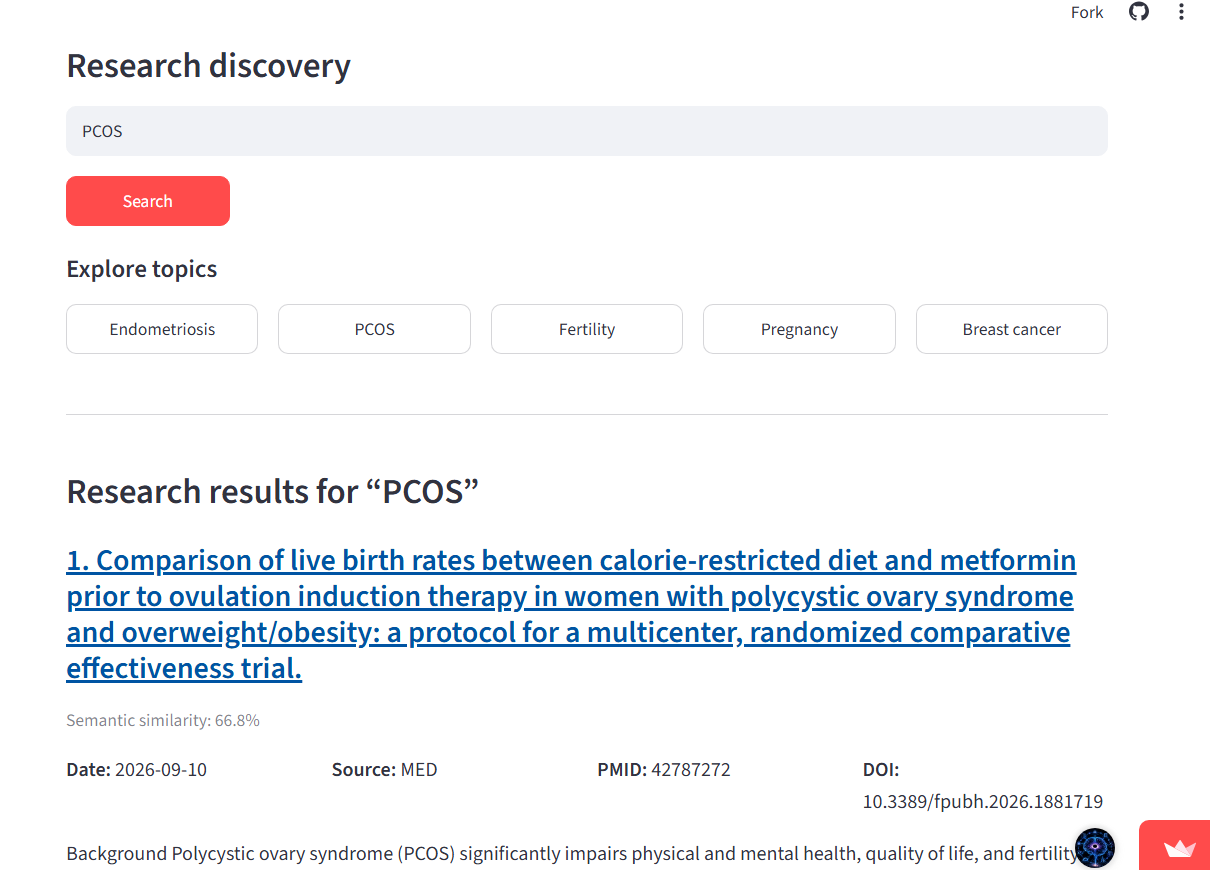
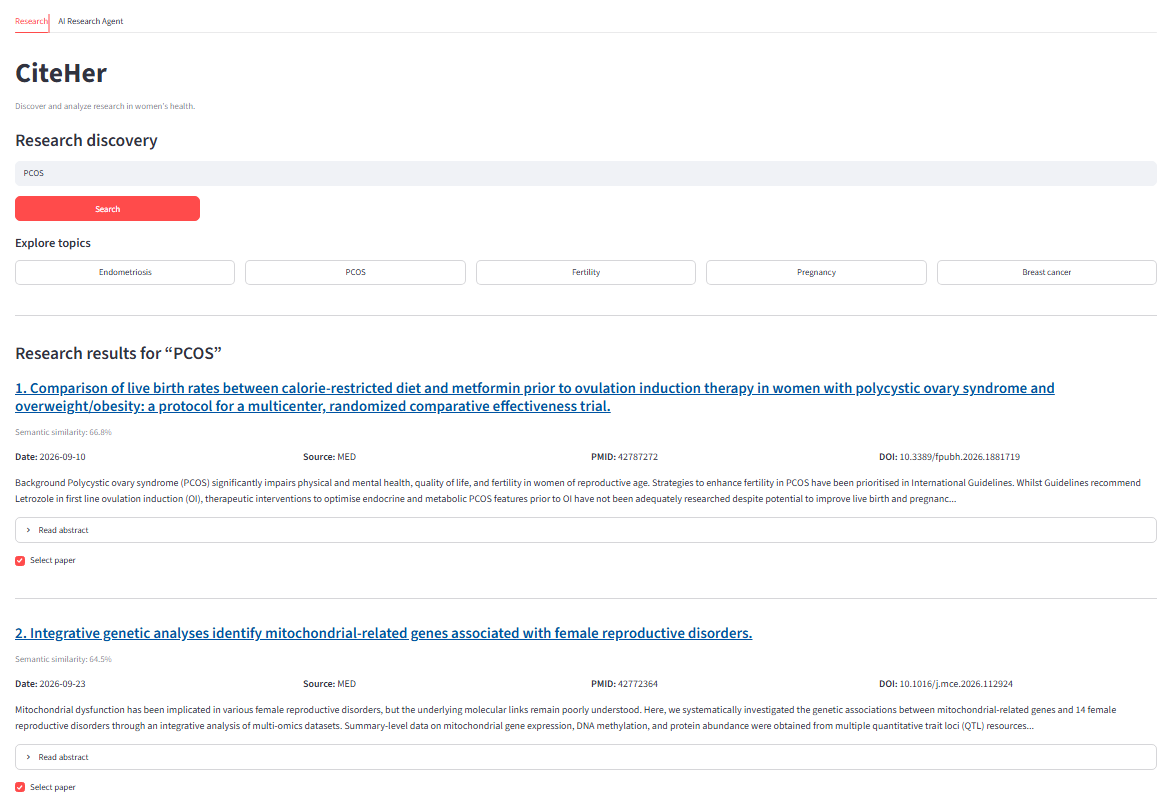
updated outputs images

diff --git a/README.md b/README.md
@@ -13,6 +13,56 @@ Search women's health research and ask questions that are answered only from the
 
 ---
 
+## Application Walkthrough & Pipeline Gallery
+
+complete execution cycle of CiteHer—spanning the automated background data refresh pipelines down to the multi-stage verifiable user interface.
+
+<table width="100%">
+  <!-- Row 1: Backend Automation & Discovery -->
+  <tr>
+    <td align="center" valign="top" width="50%">
+      <img src="outputs/github-actions.png" alt="Ingestion Pipeline Workflow" style="max-width: 100%; border-radius: 4px;" />
+      <br />
+      <strong>1. Automated Data Ingestion Workflow (GitHub Actions)</strong>
+    </td>
+    <td align="center" valign="top" width="50%">
+      <img src="outputs/search-tab.png" alt="Semantic Search Dashboard" style="max-width: 100%; border-radius: 4px;" />
+      <br />
+      <strong>2. Discovery Portal & Semantic Similarity Search Results</strong>
+    </td>
+  </tr>
+  
+  <!-- Row 2: User Control & Core Agent Generation -->
+  <tr>
+    <td align="center" valign="top" width="50%">
+      <img src="outputs/selected-papers.png" alt="Context Selection Constraints" style="max-width: 100%; border-radius: 4px;" />
+      <br />
+      <strong>3. Strict User Context Selection & Constraints Panel</strong>
+    </td>
+    <td align="center" valign="top" width="50%">
+      <img src="outputs/answer.png" alt="Grounded Response Generation" style="max-width: 100%; border-radius: 4px;" />
+      <br />
+      <strong>4. Grounded Agent Analysis & Synthesis Layer</strong>
+    </td>
+  </tr>
+  
+  <!-- Row 3: Verification, Metadata, & Resource Telemetry -->
+  <tr>
+    <td align="center" valign="top" width="50%">
+      <img src="outputs/evidence.png" alt="Extracted Evidence Block" style="max-width: 100%; border-radius: 4px;" />
+      <br />
+      <strong>5. Deterministic Claims & Abstract Text Evidence Map</strong>
+    </td>
+    <td align="center" valign="top" width="50%">
+      <img src="outputs/citations & tokens.png" alt="Telemetry and Citation Metadata" style="max-width: 100%; border-radius: 4px;" />
+      <br />
+      <strong>6. Verified Source Metadata Links & LLM Token Telemetry</strong>
+    </td>
+  </tr>
+</table>
+
+
+
 ## What it does
 
 Research papers are hard to search by keyword, and AI summaries often make up citations. CiteHer takes a different approach:
